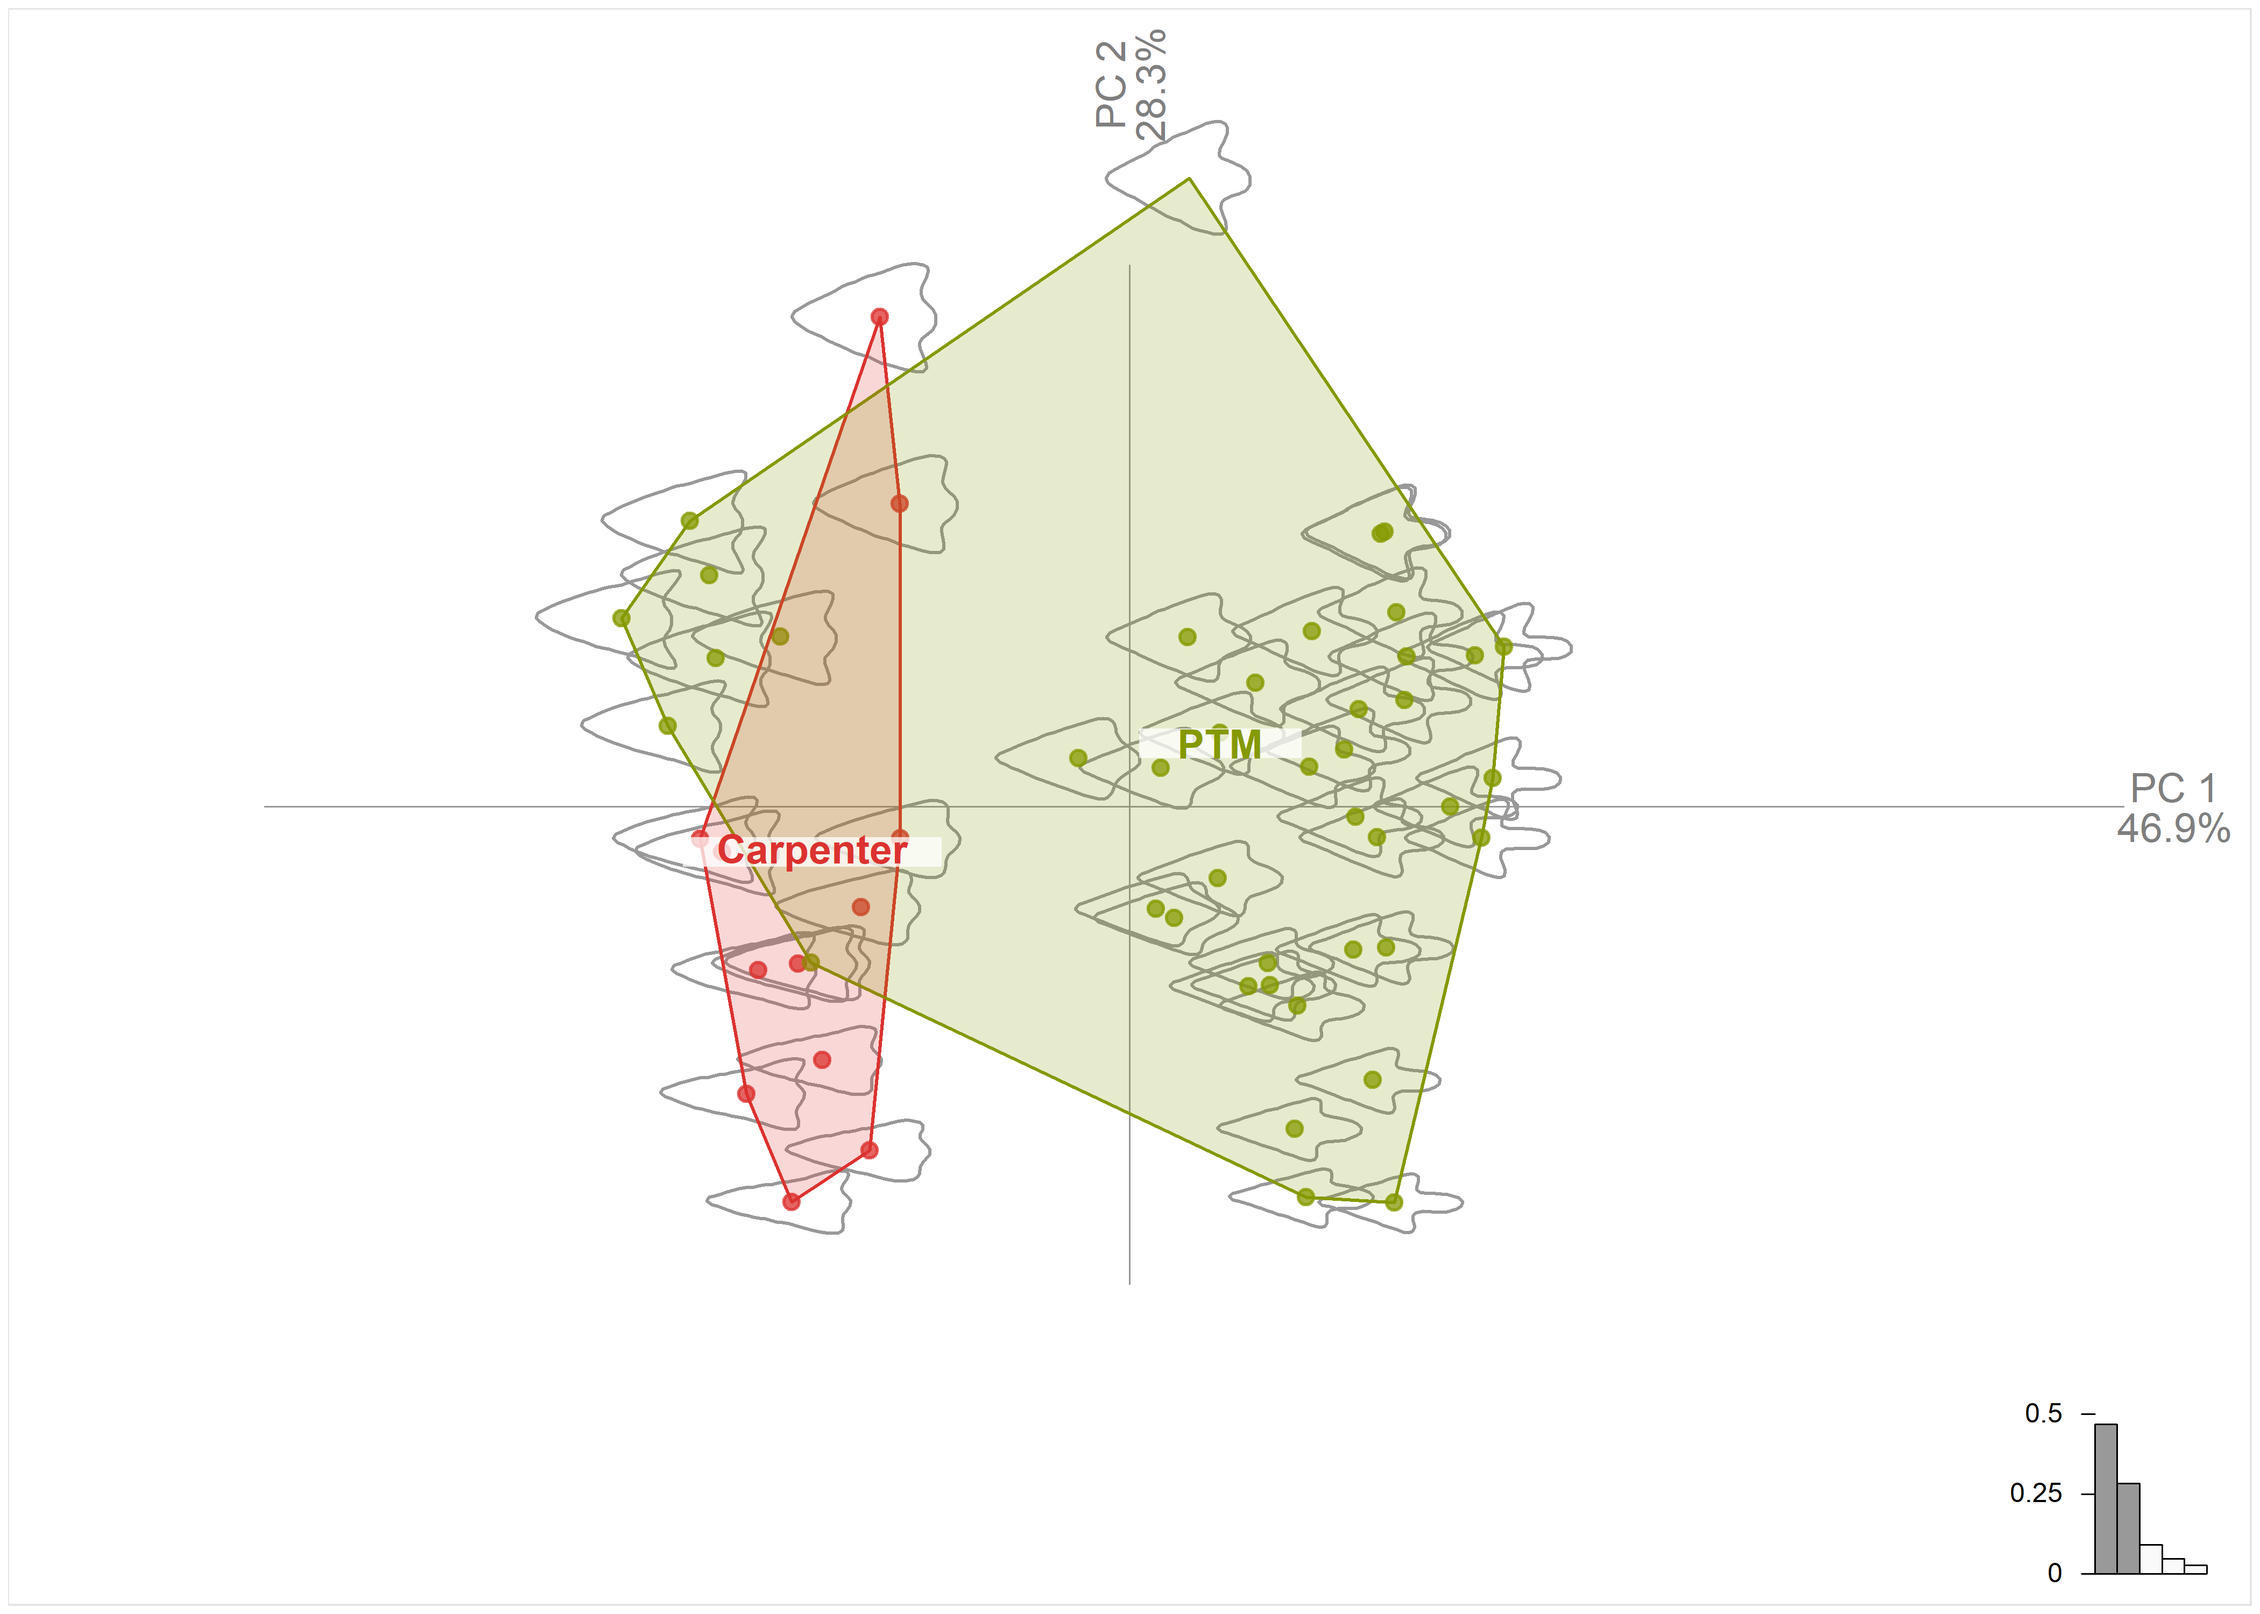
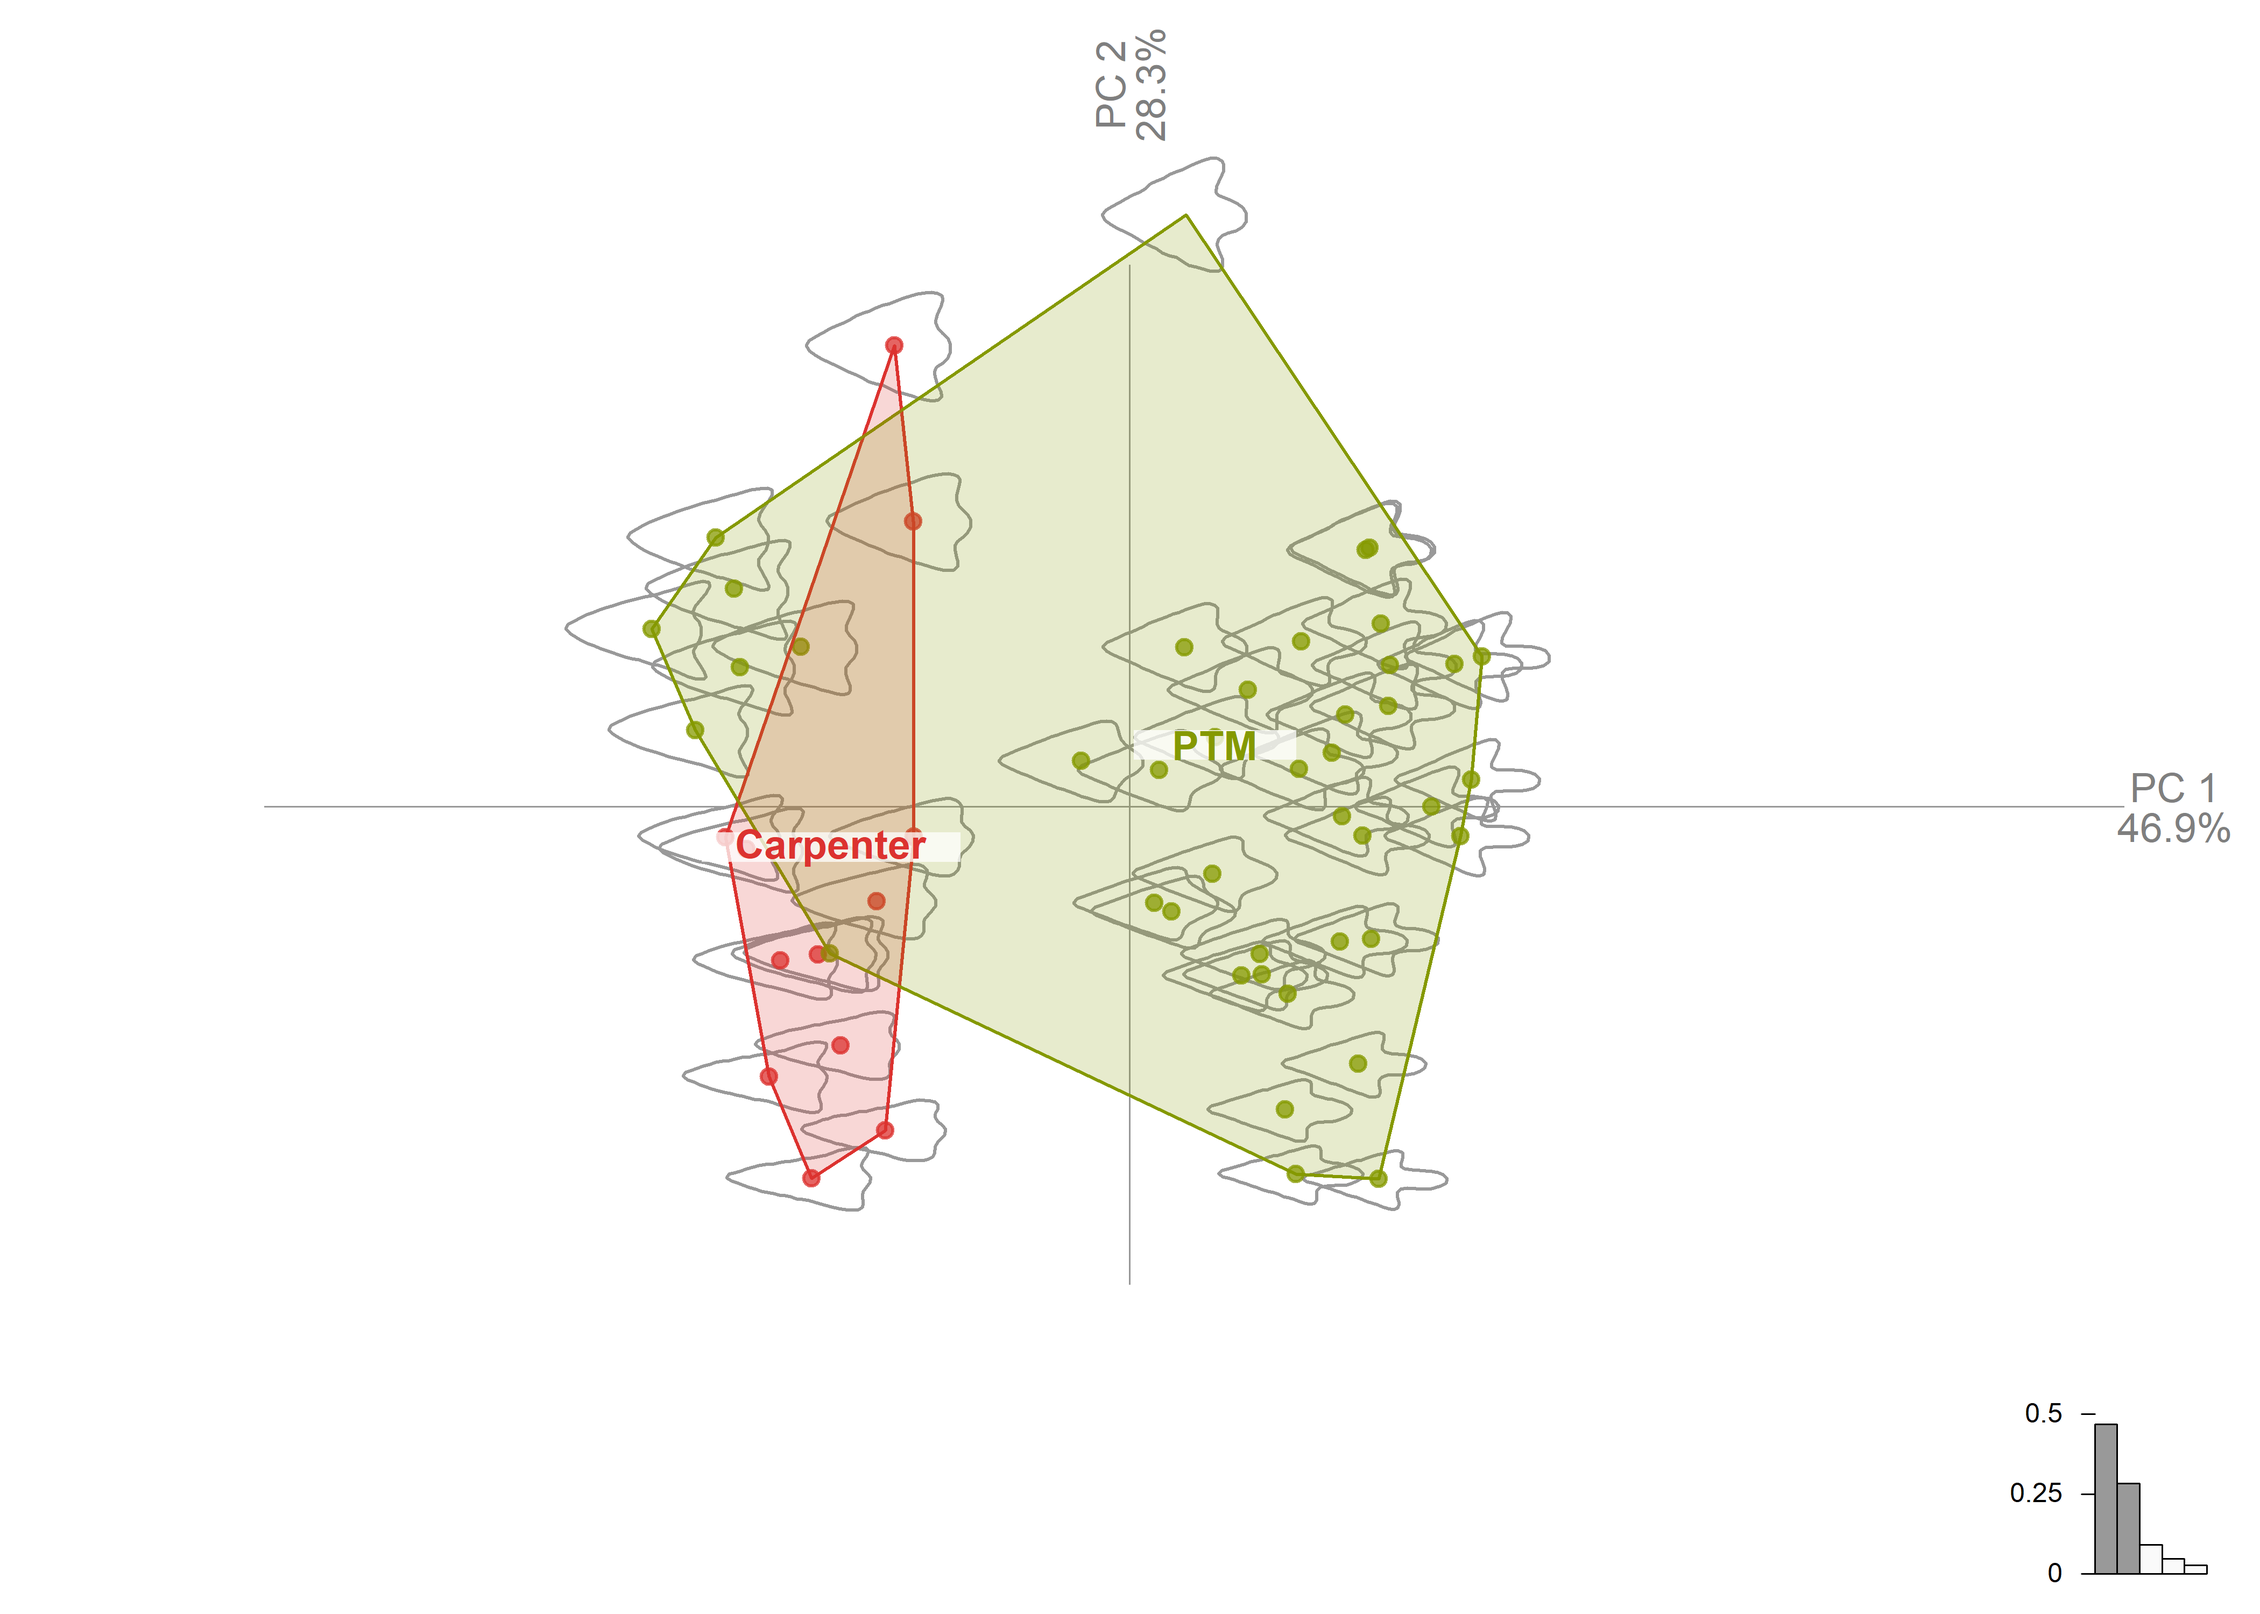
<edit index>

Changed region(s): [[0.2495, 0.093, 0.6862, 0.775], [0.0, 0.992, 0.9981, 1.0]]

diff --git a/docs/morphology.html b/docs/morphology.html
@@ -151,7 +151,7 @@ code span.wa { color: #60a0b0; font-weight: bold; font-style: italic; } /* Warni
 </ul>
             <ul class="navbar-nav navbar-nav-scroll ms-auto">
   <li class="nav-item compact">
-    <a class="nav-link" href="https://github.com/seldenlab"><i class="bi bi-github" role="img" aria-label="GitHub">
+    <a class="nav-link" href="https://github.com/seldenlab/exogamy.1"><i class="bi bi-github" role="img" aria-label="GitHub">
 </i> 
  </a>
   </li>  
@@ -301,7 +301,7 @@ Attaching package: 'Momocs'</code></pre>
 [ 54 / 54 ]  F7.3.Z.jpg</code></pre>
 </div>
 <div class="cell-output cell-output-stderr">
-<pre><code>Done in 13.9 secs</code></pre>
+<pre><code>Done in 13.5 secs</code></pre>
 </div>
 <div class="sourceCode cell-code" id="cb13"><pre class="sourceCode r code-with-copy"><code class="sourceCode r"><span id="cb13-1"><a href="#cb13-1" aria-hidden="true" tabindex="-1"></a><span class="co"># add attributes</span></span>
 <span id="cb13-2"><a href="#cb13-2" aria-hidden="true" tabindex="-1"></a>data.out <span class="ot">&lt;-</span> <span class="fu">Out</span>(outlines, </span>
@@ -577,7 +577,8 @@ $minh
 <span id="cb18-9"><a href="#cb18-9" aria-hidden="true" tabindex="-1"></a>         <span class="at">axesnames =</span> <span class="cn">TRUE</span>,</span>
 <span id="cb18-10"><a href="#cb18-10" aria-hidden="true" tabindex="-1"></a>         <span class="at">morphospace =</span> <span class="cn">TRUE</span>,</span>
 <span id="cb18-11"><a href="#cb18-11" aria-hidden="true" tabindex="-1"></a>         <span class="at">eigen =</span> <span class="cn">TRUE</span>,</span>
-<span id="cb18-12"><a href="#cb18-12" aria-hidden="true" tabindex="-1"></a>         <span class="at">zoom =</span> <span class="fl">0.85</span>)</span></code><button title="Copy to Clipboard" class="code-copy-button"><i class="bi"></i></button></pre></div>
+<span id="cb18-12"><a href="#cb18-12" aria-hidden="true" tabindex="-1"></a>         <span class="at">box =</span> <span class="cn">FALSE</span>,</span>
+<span id="cb18-13"><a href="#cb18-13" aria-hidden="true" tabindex="-1"></a>         <span class="at">zoom =</span> <span class="fl">0.8</span>)</span></code><button title="Copy to Clipboard" class="code-copy-button"><i class="bi"></i></button></pre></div>
 <div class="cell-output-display">
 <p><img src="morphology_files/figure-html/pca.plot-1.png" class="img-fluid" style="width:100.0%"></p>
 </div>
@@ -592,7 +593,8 @@ $minh
 <span id="cb19-9"><a href="#cb19-9" aria-hidden="true" tabindex="-1"></a>         <span class="at">axesnames =</span> <span class="cn">TRUE</span>,</span>
 <span id="cb19-10"><a href="#cb19-10" aria-hidden="true" tabindex="-1"></a>         <span class="at">morphospace =</span> <span class="cn">TRUE</span>,</span>
 <span id="cb19-11"><a href="#cb19-11" aria-hidden="true" tabindex="-1"></a>         <span class="at">eigen =</span> <span class="cn">TRUE</span>,</span>
-<span id="cb19-12"><a href="#cb19-12" aria-hidden="true" tabindex="-1"></a>         <span class="at">zoom =</span> <span class="fl">0.85</span>)</span></code><button title="Copy to Clipboard" class="code-copy-button"><i class="bi"></i></button></pre></div>
+<span id="cb19-12"><a href="#cb19-12" aria-hidden="true" tabindex="-1"></a>         <span class="at">box =</span> <span class="cn">FALSE</span>,</span>
+<span id="cb19-13"><a href="#cb19-13" aria-hidden="true" tabindex="-1"></a>         <span class="at">zoom =</span> <span class="fl">0.8</span>)</span></code><button title="Copy to Clipboard" class="code-copy-button"><i class="bi"></i></button></pre></div>
 <div class="cell-output-display">
 <p><img src="morphology_files/figure-html/pca.plot-2.png" class="img-fluid" style="width:100.0%"></p>
 </div>

diff --git a/supp/_site/morphology.html b/supp/_site/morphology.html
@@ -151,7 +151,7 @@ code span.wa { color: #60a0b0; font-weight: bold; font-style: italic; } /* Warni
 </ul>
             <ul class="navbar-nav navbar-nav-scroll ms-auto">
   <li class="nav-item compact">
-    <a class="nav-link" href="https://github.com/seldenlab"><i class="bi bi-github" role="img" aria-label="GitHub">
+    <a class="nav-link" href="https://github.com/seldenlab/exogamy.1"><i class="bi bi-github" role="img" aria-label="GitHub">
 </i> 
  </a>
   </li>  
@@ -301,7 +301,7 @@ Attaching package: 'Momocs'</code></pre>
 [ 54 / 54 ]  F7.3.Z.jpg</code></pre>
 </div>
 <div class="cell-output cell-output-stderr">
-<pre><code>Done in 13.9 secs</code></pre>
+<pre><code>Done in 13.5 secs</code></pre>
 </div>
 <div class="sourceCode cell-code" id="cb13"><pre class="sourceCode r code-with-copy"><code class="sourceCode r"><span id="cb13-1"><a href="#cb13-1" aria-hidden="true" tabindex="-1"></a><span class="co"># add attributes</span></span>
 <span id="cb13-2"><a href="#cb13-2" aria-hidden="true" tabindex="-1"></a>data.out <span class="ot">&lt;-</span> <span class="fu">Out</span>(outlines, </span>
@@ -577,7 +577,8 @@ $minh
 <span id="cb18-9"><a href="#cb18-9" aria-hidden="true" tabindex="-1"></a>         <span class="at">axesnames =</span> <span class="cn">TRUE</span>,</span>
 <span id="cb18-10"><a href="#cb18-10" aria-hidden="true" tabindex="-1"></a>         <span class="at">morphospace =</span> <span class="cn">TRUE</span>,</span>
 <span id="cb18-11"><a href="#cb18-11" aria-hidden="true" tabindex="-1"></a>         <span class="at">eigen =</span> <span class="cn">TRUE</span>,</span>
-<span id="cb18-12"><a href="#cb18-12" aria-hidden="true" tabindex="-1"></a>         <span class="at">zoom =</span> <span class="fl">0.85</span>)</span></code><button title="Copy to Clipboard" class="code-copy-button"><i class="bi"></i></button></pre></div>
+<span id="cb18-12"><a href="#cb18-12" aria-hidden="true" tabindex="-1"></a>         <span class="at">box =</span> <span class="cn">FALSE</span>,</span>
+<span id="cb18-13"><a href="#cb18-13" aria-hidden="true" tabindex="-1"></a>         <span class="at">zoom =</span> <span class="fl">0.8</span>)</span></code><button title="Copy to Clipboard" class="code-copy-button"><i class="bi"></i></button></pre></div>
 <div class="cell-output-display">
 <p><img src="morphology_files/figure-html/pca.plot-1.png" class="img-fluid" style="width:100.0%"></p>
 </div>
@@ -592,7 +593,8 @@ $minh
 <span id="cb19-9"><a href="#cb19-9" aria-hidden="true" tabindex="-1"></a>         <span class="at">axesnames =</span> <span class="cn">TRUE</span>,</span>
 <span id="cb19-10"><a href="#cb19-10" aria-hidden="true" tabindex="-1"></a>         <span class="at">morphospace =</span> <span class="cn">TRUE</span>,</span>
 <span id="cb19-11"><a href="#cb19-11" aria-hidden="true" tabindex="-1"></a>         <span class="at">eigen =</span> <span class="cn">TRUE</span>,</span>
-<span id="cb19-12"><a href="#cb19-12" aria-hidden="true" tabindex="-1"></a>         <span class="at">zoom =</span> <span class="fl">0.85</span>)</span></code><button title="Copy to Clipboard" class="code-copy-button"><i class="bi"></i></button></pre></div>
+<span id="cb19-12"><a href="#cb19-12" aria-hidden="true" tabindex="-1"></a>         <span class="at">box =</span> <span class="cn">FALSE</span>,</span>
+<span id="cb19-13"><a href="#cb19-13" aria-hidden="true" tabindex="-1"></a>         <span class="at">zoom =</span> <span class="fl">0.8</span>)</span></code><button title="Copy to Clipboard" class="code-copy-button"><i class="bi"></i></button></pre></div>
 <div class="cell-output-display">
 <p><img src="morphology_files/figure-html/pca.plot-2.png" class="img-fluid" style="width:100.0%"></p>
 </div>
